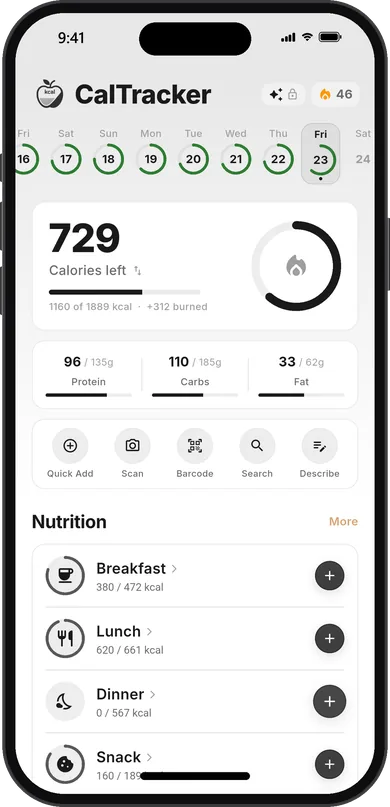
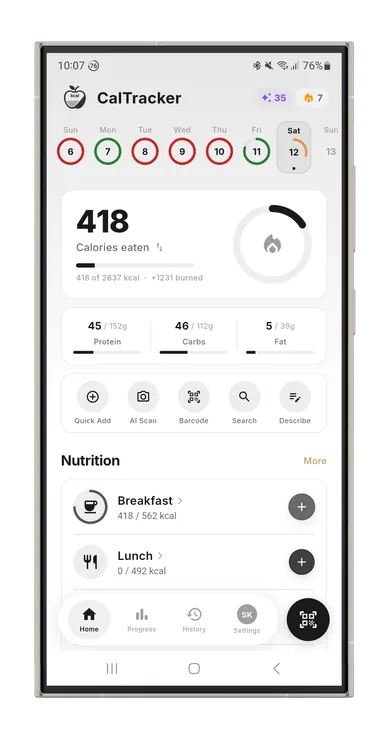
Revert "Show the current app UI: new screenshots from the store capture set"
Owner prefers the previous Samsung-photo screenshots on the site. This restores
the old showcase and hero images (still as responsive WebP from ce3122f) and the
card styling around them. The mobile.html redirect stub from 20606a0 is kept.
The iPhone mockups stay recoverable in d789c51 / via git revert of this commit.

This reverts commit d789c51.

diff --git a/index.html b/index.html
@@ -296,10 +296,12 @@
 
     .phone-frame {
       position: relative; width: 280px;
+      border-radius: 32px; overflow: hidden;
+      box-shadow: var(--shadow-xl);
+      background: var(--bg-soft);
     }
 
-    .phone-frame img { width: 100%; height: auto; display: block; filter: drop-shadow(0 12px 16px rgba(0, 0, 0, 0.16)); }
-    [data-theme="dark"] .phone-frame img { filter: drop-shadow(0 12px 22px rgba(0, 0, 0, 0.6)); }
+    .phone-frame img { width: 100%; height: auto; display: block; border-radius: 32px; }
 
 
     @media (min-width: 1025px) {
@@ -357,9 +359,10 @@
     .showcase-label { font-size: 1.1rem; font-weight: 700; letter-spacing: -0.01em; }
 
     .showcase-phone {
-      width: 220px; }
-    .showcase-phone img { width: 100%; height: auto; display: block; filter: drop-shadow(0 12px 16px rgba(0, 0, 0, 0.16)); }
-    [data-theme="dark"] .showcase-phone img { filter: drop-shadow(0 12px 22px rgba(0, 0, 0, 0.6)); }
+      width: 220px; border-radius: 28px; overflow: hidden;
+      box-shadow: var(--shadow-lg); background: var(--bg-soft);
+    }
+    .showcase-phone img { width: 100%; height: auto; display: block; border-radius: 28px; }
 
     /* ==================== FEATURES (RICH CARDS) ==================== */
     .features-section { background: var(--bg); }
@@ -852,8 +855,10 @@
       .hero { padding: 80px 16px 32px; }
       .hero-title { font-size: 2rem; }
       section { padding: 48px 16px; }
-      .showcase-phone { width: 150px; }
-      .phone-frame { width: 200px; }
+      .showcase-phone { width: 150px; border-radius: 20px; }
+      .showcase-phone img { border-radius: 20px; }
+      .phone-frame { width: 200px; border-radius: 26px; }
+      .phone-frame img { border-radius: 26px; }
       .hero-phone { margin-left: -16px; margin-right: -16px; }
       .fan-stage {
         flex: none; width: 90%; max-width: none; margin: 0 auto; aspect-ratio: 1 / 1.2;
@@ -1010,9 +1015,9 @@
       <div class="hero-phone">
         <div class="fan-stage" data-fan>
           <div class="fan-tilt">
-            <figure class="fan-phone fan-side fan-left"><div class="fan-float"><img src="hero-phone-scan.webp" alt="CalTracker AI food scanner detecting the foods in a meal photo" width="640" height="1324" loading="eager"></div></figure>
-            <figure class="fan-phone fan-side fan-right"><div class="fan-float"><img src="hero-phone-progress.webp" alt="CalTracker progress screen with calories burned, steps, workouts and weight" width="640" height="1324" loading="eager"></div></figure>
-            <figure class="fan-phone fan-center"><div class="fan-float"><img src="hero-phone-home.webp" alt="CalTracker AI calorie counter home screen showing daily calories and macros" width="640" height="1324" loading="eager" fetchpriority="high"></div></figure>
+            <figure class="fan-phone fan-side fan-left"><div class="fan-float"><img src="hero-phone-scan.webp" alt="CalTracker AI food scanner detecting the foods in a meal photo" width="640" height="1312" loading="eager"></div></figure>
+            <figure class="fan-phone fan-side fan-right"><div class="fan-float"><img src="hero-phone-progress.webp" alt="CalTracker progress screen with calories burned, steps, workouts and weight" width="640" height="1312" loading="eager"></div></figure>
+            <figure class="fan-phone fan-center"><div class="fan-float"><img src="hero-phone-home.webp" alt="CalTracker AI calorie counter home screen showing daily calories and macros" width="640" height="1312" loading="eager" fetchpriority="high"></div></figure>
           </div>
         </div>
         <script>if (!matchMedia('(prefers-reduced-motion: reduce)').matches) document.currentScript.previousElementSibling.classList.add('fan-ready');</script>
@@ -1040,27 +1045,27 @@
     </div>
     <div class="showcase-scroll animate-on-scroll">
       <div class="showcase-item">
-        <div class="showcase-phone"><img src="img/phone-home-780.webp" srcset="img/phone-home-390.webp 390w, img/phone-home-780.webp 780w" sizes="(max-width: 640px) 160px, 220px" alt="CalTracker home screen with calorie and macro dashboard" width="780" height="1613" loading="lazy" decoding="async"></div>
+        <div class="showcase-phone"><img src="img/phone-home-780.webp" srcset="img/phone-home-390.webp 390w, img/phone-home-780.webp 780w" sizes="(max-width: 640px) 160px, 220px" alt="CalTracker home screen with calorie and macro dashboard" width="780" height="1478" loading="lazy" decoding="async"></div>
         <div class="showcase-label">Home Dashboard</div>
       </div>
       <div class="showcase-item">
-        <div class="showcase-phone"><img src="img/phone-scan-780.webp" srcset="img/phone-scan-390.webp 390w, img/phone-scan-780.webp 780w" sizes="(max-width: 640px) 160px, 220px" alt="AI food scanner recognising a meal and estimating calories" width="780" height="1613" loading="lazy" decoding="async"></div>
+        <div class="showcase-phone"><img src="img/phone-scan-780.webp" srcset="img/phone-scan-390.webp 390w, img/phone-scan-780.webp 780w" sizes="(max-width: 640px) 160px, 220px" alt="AI food scanner recognising a meal and estimating calories" width="780" height="1478" loading="lazy" decoding="async"></div>
         <div class="showcase-label">AI Food Scanner</div>
       </div>
       <div class="showcase-item">
-        <div class="showcase-phone"><img src="img/phone-activity-780.webp" srcset="img/phone-activity-390.webp 390w, img/phone-activity-780.webp 780w" sizes="(max-width: 640px) 160px, 220px" alt="CalTracker progress screen with calories burned, steps goal, workouts and weight" width="780" height="1613" loading="lazy" decoding="async"></div>
+        <div class="showcase-phone"><img src="img/phone-activity-780.webp" srcset="img/phone-activity-390.webp 390w, img/phone-activity-780.webp 780w" sizes="(max-width: 640px) 160px, 220px" alt="Weekly calorie and macro statistics and progress charts" width="780" height="1478" loading="lazy" decoding="async"></div>
         <div class="showcase-label">Statistics</div>
       </div>
       <div class="showcase-item">
-        <div class="showcase-phone"><img src="img/phone-eval-780.webp" srcset="img/phone-eval-390.webp 390w, img/phone-eval-780.webp 780w" sizes="(max-width: 640px) 160px, 220px" alt="AI daily meal evaluation and nutrition score" width="780" height="1613" loading="lazy" decoding="async"></div>
+        <div class="showcase-phone"><img src="img/phone-eval-780.webp" srcset="img/phone-eval-390.webp 390w, img/phone-eval-780.webp 780w" sizes="(max-width: 640px) 160px, 220px" alt="AI daily meal evaluation and nutrition score" width="780" height="1478" loading="lazy" decoding="async"></div>
         <div class="showcase-label">AI Meal Rating</div>
       </div>
       <div class="showcase-item">
-        <div class="showcase-phone"><img src="img/phone-history-780.webp" srcset="img/phone-history-390.webp 390w, img/phone-history-780.webp 780w" sizes="(max-width: 640px) 160px, 220px" alt="History calendar with daily calorie rings and monthly averages" width="780" height="1613" loading="lazy" decoding="async"></div>
+        <div class="showcase-phone"><img src="img/phone-history-780.webp" srcset="img/phone-history-390.webp 390w, img/phone-history-780.webp 780w" sizes="(max-width: 640px) 160px, 220px" alt="Meal history log of tracked calories and macros" width="780" height="1478" loading="lazy" decoding="async"></div>
         <div class="showcase-label">Meal History</div>
       </div>
       <div class="showcase-item">
-        <div class="showcase-phone"><img src="img/phone-weight-780.webp" srcset="img/phone-weight-390.webp 390w, img/phone-weight-780.webp 780w" sizes="(max-width: 640px) 160px, 220px" alt="Weight history chart with BMI gauge and goal trend" width="780" height="1613" loading="lazy" decoding="async"></div>
+        <div class="showcase-phone"><img src="img/phone-weight-780.webp" srcset="img/phone-weight-390.webp 390w, img/phone-weight-780.webp 780w" sizes="(max-width: 640px) 160px, 220px" alt="Weight history chart with BMI gauge and goal trend" width="780" height="1478" loading="lazy" decoding="async"></div>
         <div class="showcase-label">Weight Tracking</div>
       </div>
     </div>
@@ -1412,7 +1417,7 @@
         </ul>
       </div>
       <div class="showcase-row-img">
-        <div class="phone-frame"><img src="img/phone-scan-780.webp" srcset="img/phone-scan-390.webp 390w, img/phone-scan-780.webp 780w" sizes="(max-width: 640px) 240px, 280px" alt="AI food scanner estimating calories from a food photo" width="780" height="1613" loading="lazy" decoding="async"></div>
+        <div class="phone-frame"><img src="img/phone-scan-780.webp" srcset="img/phone-scan-390.webp 390w, img/phone-scan-780.webp 780w" sizes="(max-width: 640px) 240px, 280px" alt="AI food scanner estimating calories from a food photo" width="780" height="1478" loading="lazy" decoding="async"></div>
       </div>
     </div>
 
@@ -1429,7 +1434,7 @@
         </ul>
       </div>
       <div class="showcase-row-img">
-        <div class="phone-frame"><img src="img/phone-activity-780.webp" srcset="img/phone-activity-390.webp 390w, img/phone-activity-780.webp 780w" sizes="(max-width: 640px) 240px, 280px" alt="Progress screen with daily activity, steps and body metrics" width="780" height="1613" loading="lazy" decoding="async"></div>
+        <div class="phone-frame"><img src="img/phone-activity-780.webp" srcset="img/phone-activity-390.webp 390w, img/phone-activity-780.webp 780w" sizes="(max-width: 640px) 240px, 280px" alt="Calorie and macro statistics and progress tracking" width="780" height="1478" loading="lazy" decoding="async"></div>
       </div>
     </div>
 
@@ -1446,7 +1451,7 @@
         </ul>
       </div>
       <div class="showcase-row-img">
-        <div class="phone-frame"><img src="img/phone-eval-780.webp" srcset="img/phone-eval-390.webp 390w, img/phone-eval-780.webp 780w" sizes="(max-width: 640px) 240px, 280px" alt="AI meal evaluation giving a daily nutrition score" width="780" height="1613" loading="lazy" decoding="async"></div>
+        <div class="phone-frame"><img src="img/phone-eval-780.webp" srcset="img/phone-eval-390.webp 390w, img/phone-eval-780.webp 780w" sizes="(max-width: 640px) 240px, 280px" alt="AI meal evaluation giving a daily nutrition score" width="780" height="1478" loading="lazy" decoding="async"></div>
       </div>
     </div>
 
@@ -1463,7 +1468,7 @@
         </ul>
       </div>
       <div class="showcase-row-img">
-        <div class="phone-frame"><img src="img/phone-history-780.webp" srcset="img/phone-history-390.webp 390w, img/phone-history-780.webp 780w" sizes="(max-width: 640px) 240px, 280px" alt="Monthly history calendar showing which days hit the calorie goal" width="780" height="1613" loading="lazy" decoding="async"></div>
+        <div class="phone-frame"><img src="img/phone-history-780.webp" srcset="img/phone-history-390.webp 390w, img/phone-history-780.webp 780w" sizes="(max-width: 640px) 240px, 280px" alt="Meal history showing previously tracked meals and calories" width="780" height="1478" loading="lazy" decoding="async"></div>
       </div>
     </div>
   </section>
